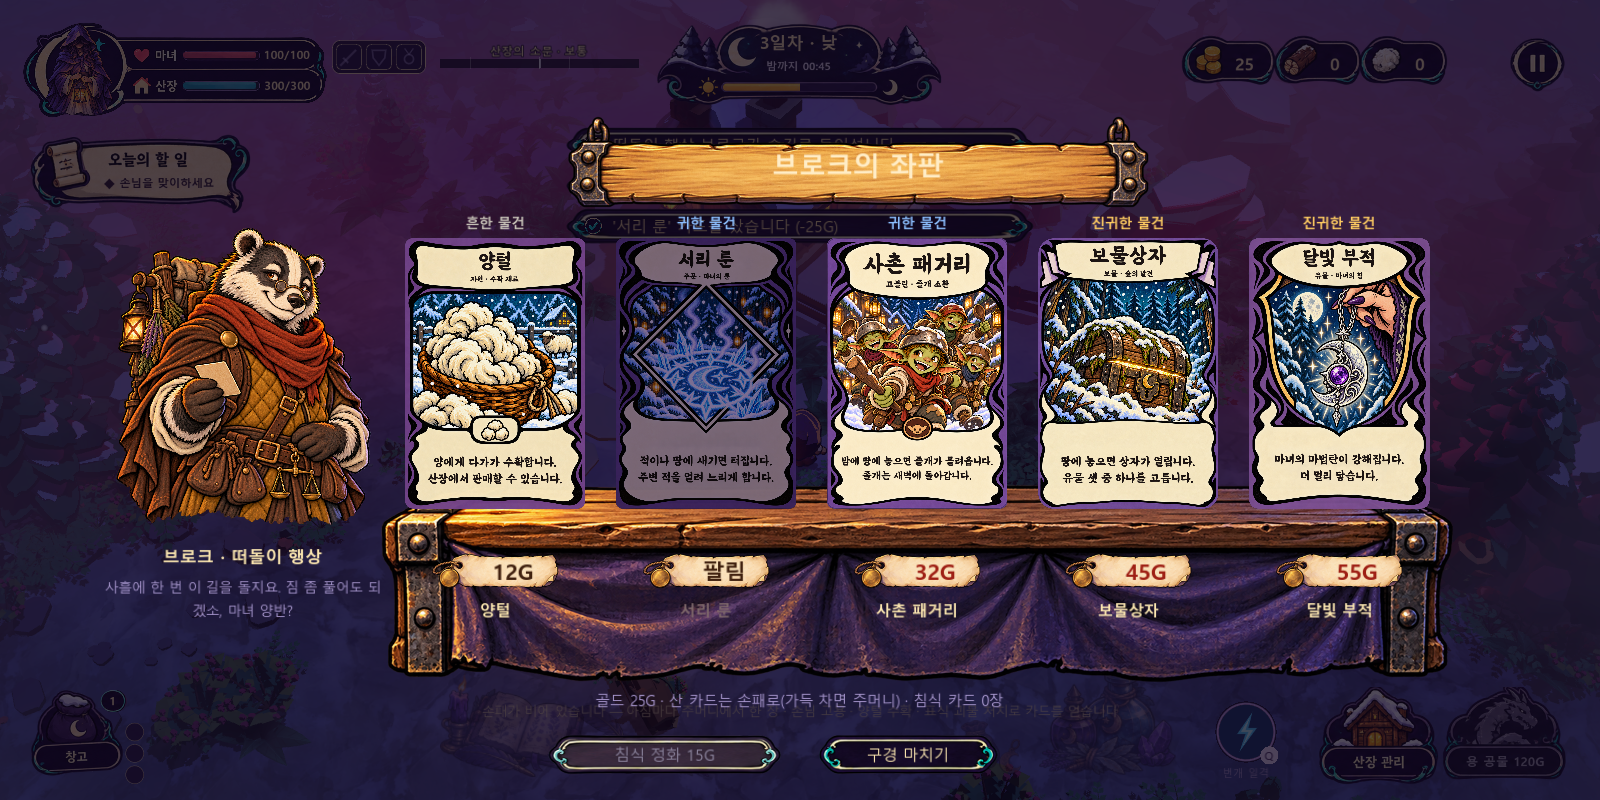
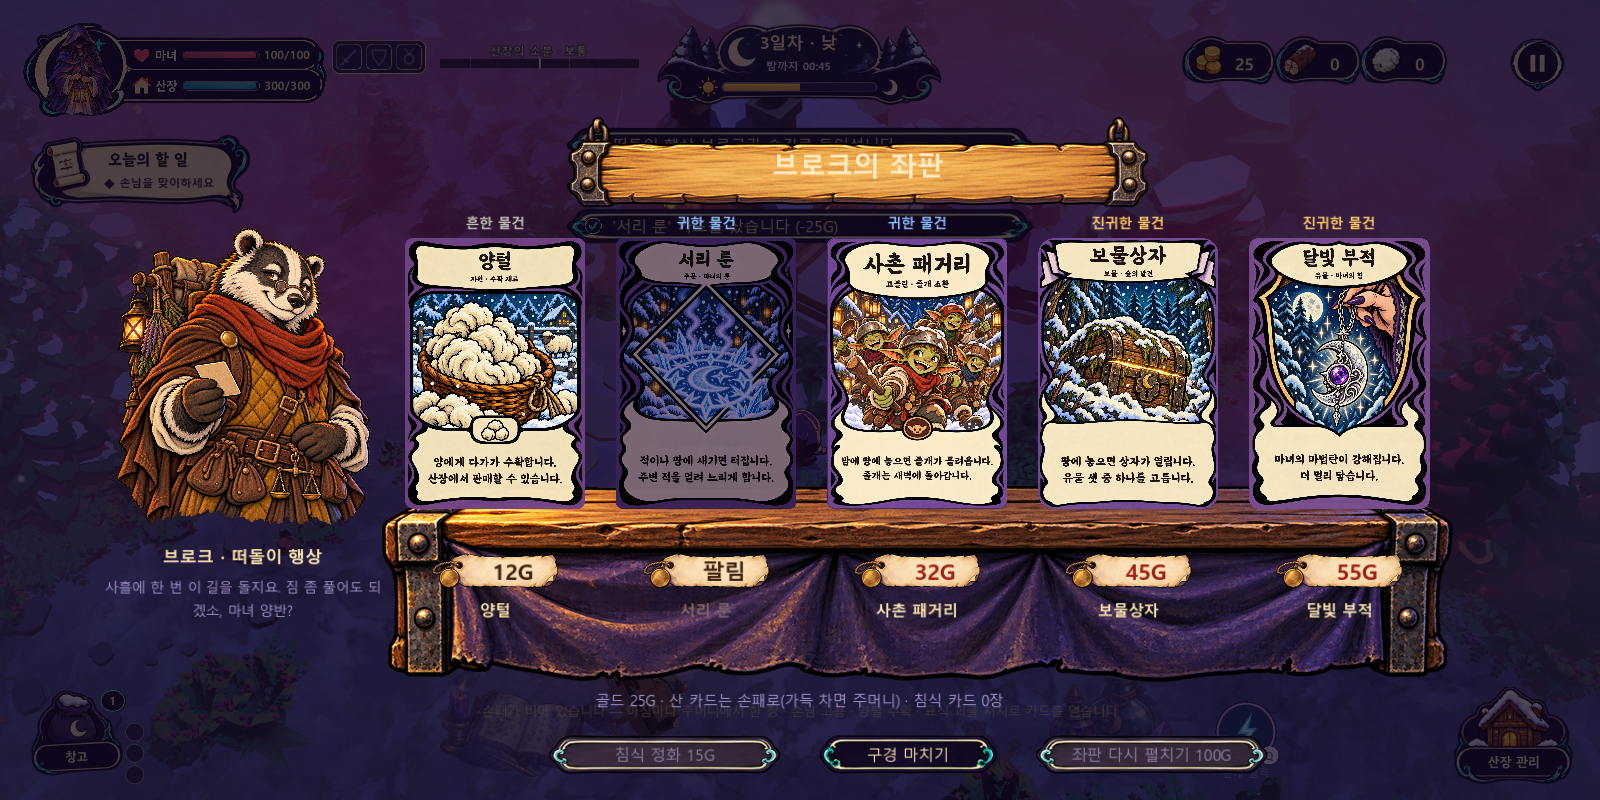
feat: merchant reroll — 100G once per visit swaps all 5 stall cards for fresh ones; black sheep back to a normal random-pool card (not fixed); exe re-export

Changed region(s): [[0.625, 0.8438, 1.0, 1.0]]

diff --git a/godot/README.md b/godot/README.md
@@ -1,6 +1,6 @@
 # 마녀산장 — Godot 프로토타입
 
-**2026-10-24 떠돌이 행상 브로크·상점:** 오소리 수인 행상 브로크(`guest_profiles.gd` `SPECIALS`, id `brock`)가 3·6·9·12일차 낮 45초에 혼자 걸어와 문 오른쪽에 좌판을 펼친다(`scripts/game/merchant.gd`, `main.merchant`). 도착 소개 뒤 상점(`offer_screen.open_merchant`)이 자동으로 열리고, 검은 양 1장(고정) + 인물 카드(용병 계약·에린)·침식·내부·이야기 전용 카드를 뺀 풀에서 무작위 4장을 가치 기반 가격(`merchant_data.gd`: 종류별 기본값 + 종족 +4G + 개별 보정 + 되팔기 방지)으로 판다. 상점은 그날 한 번뿐이라 닫으면 브로크가 떠나고(상점 전에 밤이 와도 떠남), 상점이 열린 동안 손님 메달·말풍선은 숨는다. 예전 6·11일차 장날은 이 방문으로 대체(`chapter_data.gd` `market` 제거). 초상·간판·좌판·가격표는 코덱스 요청([요청서](../docs/handoff/codex-merchant-brock-v01.md)), 없으면 실루엣·단색 판. 검증 `tools/verify_merchant.gd` 53항목. [기획](../docs/merchant-shop-v01.md).
+**2026-10-24 떠돌이 행상 브로크·상점:** 오소리 수인 행상 브로크(`guest_profiles.gd` `SPECIALS`, id `brock`)가 3·6·9·12일차 낮 45초에 혼자 걸어와 문 오른쪽에 좌판을 펼친다(`scripts/game/merchant.gd`, `main.merchant`). 도착 소개 뒤 상점(`offer_screen.open_merchant`)이 자동으로 열리고, 인물 카드(용병 계약·에린)·침식·내부·이야기 전용 카드를 뺀 풀(검은 양 포함)에서 무작위 5장을 가치 기반 가격(`merchant_data.gd`: 종류별 기본값 + 종족 +4G + 개별 보정 + 되팔기 방지)으로 판다. 상점은 그날 한 번뿐이라 닫으면 브로크가 떠나고(상점 전에 밤이 와도 떠남), 상점이 열린 동안 손님 메달·말풍선은 숨는다. 예전 6·11일차 장날은 이 방문으로 대체(`chapter_data.gd` `market` 제거). 초상·간판·좌판·가격표는 코덱스 요청([요청서](../docs/handoff/codex-merchant-brock-v01.md)), 없으면 실루엣·단색 판. 검증 `tools/verify_merchant.gd` 60항목. 100G 로 방문마다 한 번 좌판 5장을 새로 펼칠 수 있다(`merchant.reroll`). [기획](../docs/merchant-shop-v01.md).
 
 **2026-10-22 손님 말 걸기 이야기 42편 재작성(성격·세계관):** 사용자 요청 — 예전 `guest_dialogues.gd` STORIES 는 42편 전부 "숲에서 겪은 기괴한 일"이라 딱딱하고 단조로웠다. 인물마다 소재를 달리해 다시 썼다: 마녀사냥 때 각 종족이 한 일, 워록의 흔적, 네 자매·네 귀퉁이의 등불, 종족 문화(돌·셈·맹세·솥), 산장 일상 농담(감자 소금 버섯·고기는 추가 요금·빗자루 내기). 숲의 미스터리는 몇 편(오르무·윌로우 등)에만 남겼다. 첫인사 3종·늑대의 피·에린 이야기는 그대로. 구조(prompt·title·opening·choices 2·closing)와 선택지가 보상에 개입하지 않는 원칙은 유지. 영문 336문장을 `tools/i18n/overrides.json`에 넣고 사전 재생성. 검증 `tools/verify_guest_stories.gd` 10항목(42명 전원·구조·도입 중복 없음·대화 창 715px/33px·도착 창 580px/28px 기준 3줄 이내·영문 누락/한글 섞임), `verify_dialogue_choices` 35·`verify_guest_roster` 316·`verify_i18n` 24·`verify_i18n_screens` 62 그대로. 읽기용 모음 [docs/dialogue-and-world-narrative.md](../docs/dialogue-and-world-narrative.md) 3부 갱신.
 

diff --git a/docs/merchant-shop-v01.md b/docs/merchant-shop-v01.md
@@ -34,11 +34,12 @@
 - 상점이 열린 동안에는 왼쪽 위 손님 메달·말풍선을 숨긴다(다른 가운데 화면 — 장날·새벽 보상·보물상자·마법서·제단 — 도 같다).
 - 화면: 간판(제목 "브로크의 좌판") · 왼쪽 초상과 인사 · 나무 좌판 위 카드 5장 · 카드마다 등급(위)·가격표(아래)·이름. 골드가 모자란 가격은 붉게, 팔린 칸은 "팔림".
 - 구매: 카드는 손패로(가득 차면 주머니). 같은 칸은 한 번만. 다섯 장을 모두 사면 브로크가 인사한다.
+- **좌판 다시 펼치기(100G, 방문마다 한 번, 사용자 요청 2026-10-25):** 5장을 지금 좌판과 겹치지 않는 새 무작위 카드로 모두 바꾼다(팔린 칸도 새 카드가 된다). 골드가 모자라거나 이미 다시 펼쳤으면 버튼이 꺼진다. 수치는 `merchant_data.gd` `REROLL_PRICE`.
 - **침식 정화**(15G)는 예전 장날처럼 이 화면에서 한다.
 
 ### 좌판 카드 — 무작위·인물 카드 제외
 
-**검은 양**(40G)은 매 방문 좌판 첫 칸에 고정으로 오른다(사용자 요청 2026-10-25). 나머지 4칸은 상품 풀에서 서로 다른 카드를 균등 무작위로 고른다. 풀은 카탈로그 전체에서 아래를 뺀 것이다.
+방문마다 상품 풀에서 **서로 다른 5장**을 균등 무작위로 고른다. **검은 양(40G)**도 이 풀에 들어 있어 무작위로 오른다(고정 아님, 사용자 확인 2026-10-25).
 
 | 제외 | 이유 |
 | --- | --- |
@@ -86,7 +87,7 @@
 
 ## 검증
 
-헤드리스 `verify_merchant.gd` **53항목**: 프로필·방문 요일·시각·장날 대체, 풀의 인물/침식/내부 카드 제외, 가격·되팔기 방지·가치 순서·등급, 300회 무작위 좌판(서로 다른 5장·91종 모두 등장),
+헤드리스 `verify_merchant.gd` **60항목**: 프로필·방문 요일·시각·장날 대체, 풀의 인물/침식/내부 카드 제외, 가격·되팔기 방지·가치 순서·등급, 300회 무작위 좌판(서로 다른 5장·91종 모두 등장),
 2일차·3일차 40초 미방문 → 45초 혼자 도착(숙박 묶음 불변) → 소개 후 입실 → 좌판 자리에서 자동 상점(정지·카드 5장·가격표 글자·장식·화면 안) → 메달·말풍선 숨김 → 구매·중복 구매·골드 부족 → 닫기 → 행상 퇴장·그날 재오픈 거부(직접·손님 탭 경로)·재방문 없음 → 9일차 상점 전 밤 퇴장 → 6일차 새 좌판·다른 인사.
 
 ## 후속 후보
